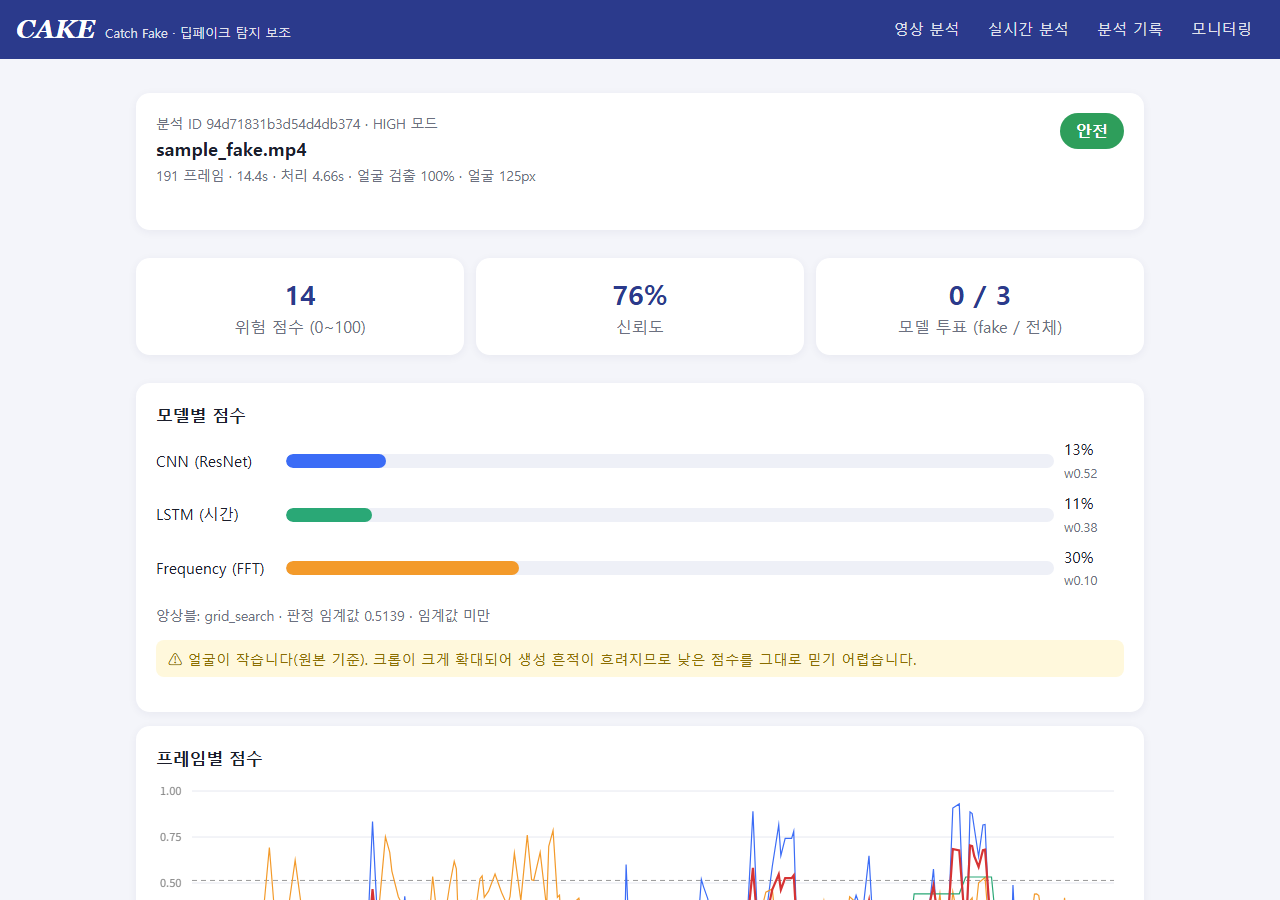
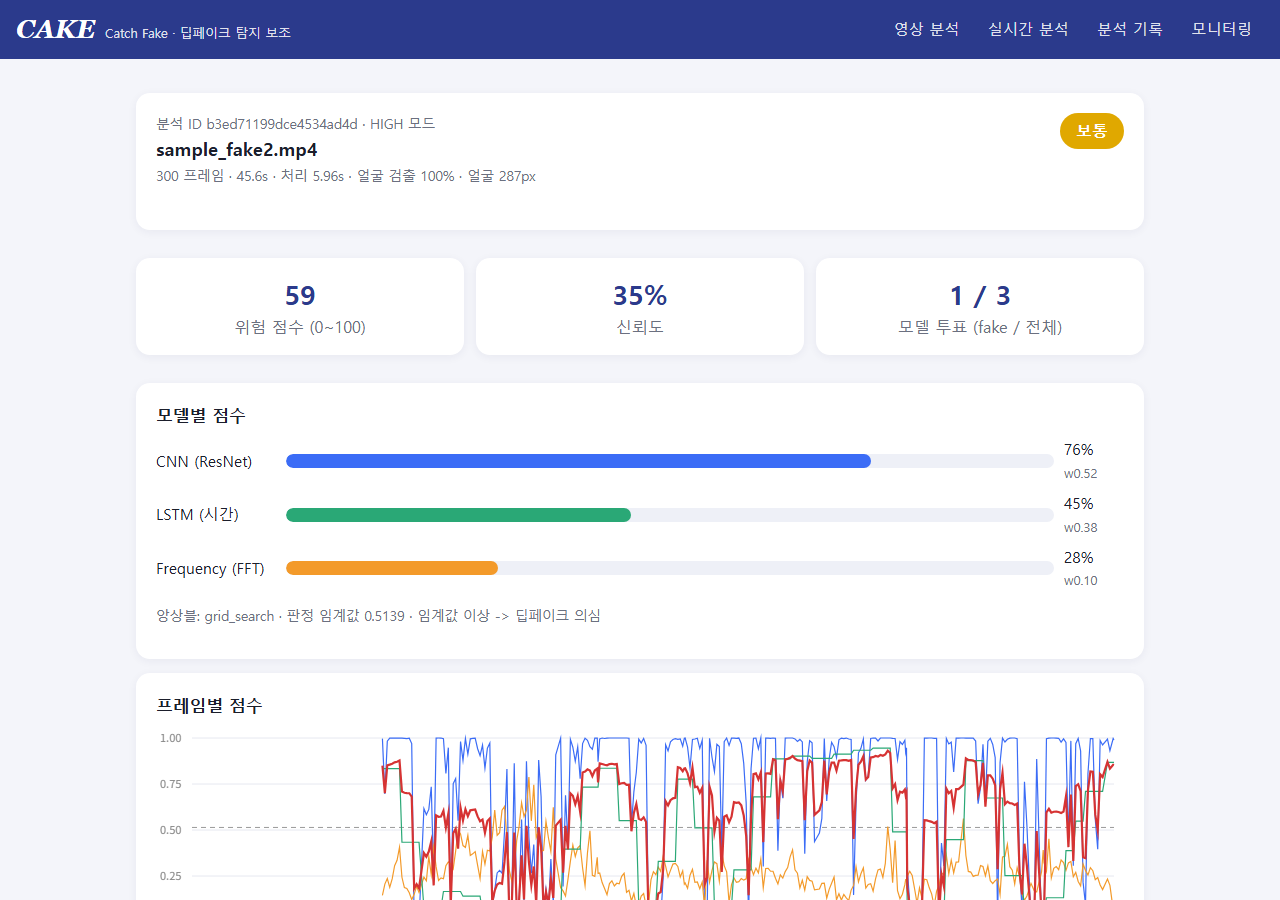
샘플 교체 - 결과 화면, 측정, 평가 스크립트 갱신

diff --git a/detector/training/eval_samples.py b/detector/training/eval_samples.py
@@ -1,6 +1,7 @@
 """
 data/samples/ 의 실제 SNS 영상을 현재 체크포인트로 일괄 분석 -> 일반화(도메인 밖) 점검.
-라벨은 --labels CSV(file,label; 1=fake 0=real) 로 파일별 지정. 없으면 --label 로 전체 동일 라벨.
+라벨은 --labels CSV(file,label; 1=fake 0=real -1=범위 밖) 로 파일별 지정. 없으면 --label 로 전체 동일 라벨.
+범위 밖(-1: VFX·완전 생성 영상 등 얼굴 변조가 아닌 것)은 점수만 기록하고 정답 집계에서 뺀다.
 
     docker compose exec -T detector python -m training.eval_samples --tag v1_labeled --labels /data/samples/labels.csv
     -> runs/samples_eval_{tag}.json + 표 출력.  Grad-CAM 생략(점수만).
@@ -34,7 +35,7 @@ def main() -> None:
     ap.add_argument("--dir", type=Path, default=settings.data_dir / "samples")
     ap.add_argument("--tag", required=True, help="결과 파일 이름 (예: v1, v2_sns)")
     ap.add_argument("--label", type=int, default=1, help="샘플 실제 라벨 (기본 1=fake). --labels 가 없을 때만 사용")
-    ap.add_argument("--labels", type=Path, default=None, help="파일별 라벨 CSV (file,label). 1=fake, 0=real")
+    ap.add_argument("--labels", type=Path, default=None, help="파일별 라벨 CSV (file,label). 1=fake, 0=real, -1=범위 밖(집계 제외)")
     args = ap.parse_args()
 
     labels: dict[str, int] = {}
@@ -55,18 +56,20 @@ def main() -> None:
         s = r["scores"]
         lab = labels.get(p.name, args.label)
         rows.append({"file": p.name, "label": lab, "score": round(r["deepfake_score"], 4), "risk": r["risk_level"],
-                     "pred_fake": bool(r["deepfake_score"] >= thr), "correct": bool(r["deepfake_score"] >= thr) == (lab == 1),
+                     "pred_fake": bool(r["deepfake_score"] >= thr), "correct": (bool(r["deepfake_score"] >= thr) == (lab == 1)) if lab >= 0 else None,
                      "vote": f'{r["vote"]["fake"]}/{r["vote"]["total"]}',
                      "cnn": round(s["cnn"], 3), "lstm": round(s["lstm"], 3), "fft": round(s["frequency"], 3),
                      "face_ratio": r["face_ratio"], "face_px": r.get("face_px"), "frames_no_face": r.get("frames_no_face"),
                      "quality_warnings": r.get("quality_warnings", []), "sec": round(time.time() - t0, 1)})
     uniq = [r for r in rows if "dup_of" not in r]
     fakes = [r for r in uniq if r["label"] == 1]; reals = [r for r in uniq if r["label"] == 0]
-    n_hit = sum(r["correct"] for r in uniq)
+    oos = [r for r in uniq if r["label"] < 0]
+    scored = fakes + reals
+    n_hit = sum(bool(r["correct"]) for r in scored)
     tp = sum(r["pred_fake"] for r in fakes); tn = sum(not r["pred_fake"] for r in reals)
     out = {"tag": args.tag, "mode": args.mode, "weights": engine.ens_cfg["weights"], "threshold": thr,
-           "n_unique": len(uniq), "n_fake": len(fakes), "n_real": len(reals), "n_correct": n_hit,
-           "accuracy": round(n_hit / max(1, len(uniq)), 3),
+           "n_unique": len(uniq), "n_fake": len(fakes), "n_real": len(reals), "n_out_of_scope": len(oos), "n_correct": n_hit,
+           "accuracy": round(n_hit / max(1, len(scored)), 3),
            "fake_detected": tp, "recall": round(tp / len(fakes), 3) if fakes else None,
            "real_correct": tn, "specificity": round(tn / len(reals), 3) if reals else None,
            "rows": rows}
@@ -77,13 +80,13 @@ def main() -> None:
     print(f"\n[{args.tag}] mode={args.mode} weights={out['weights']} thr={thr:.3f}")
     print(f"{'file':<36}{'label':<6}{'score':>7}  {'risk':<8}{'pred':<6}{'vote':<5}{'cnn':>6}{'lstm':>6}{'fft':>6}{'face':>6}{'px':>5}{'drop':>5}  warnings")
     for r in sorted(uniq, key=lambda r: -r["score"]):
-        print(f"{r['file'][:35]:<36}{'FAKE' if r['label'] == 1 else 'real':<6}{r['score']*100:>7.1f}  {r['risk']:<8}{'FAKE' if r['pred_fake'] else 'real':<6}"
+        print(f"{r['file'][:35]:<36}{'FAKE' if r['label'] == 1 else ('real' if r['label'] == 0 else 'OOS'):<6}{r['score']*100:>7.1f}  {r['risk']:<8}{'FAKE' if r['pred_fake'] else 'real':<6}"
               f"{r['vote']:<5}{r['cnn']:>6.2f}{r['lstm']:>6.2f}{r['fft']:>6.2f}{r['face_ratio']:>6.2f}"
               f"{str(r.get('face_px') or '-'):>5}{str(r.get('frames_no_face') or 0):>5}  {','.join(r.get('quality_warnings') or [])}")
     for r in rows:
         if "dup_of" in r:
             print(f"{r['file'][:35]:<36}   (= {r['dup_of']})")
-    print(f"정답: {n_hit}/{len(uniq)} = {out['accuracy']*100:.0f}%  |  가짜 탐지 {tp}/{len(fakes)}  |  진짜 정답 {tn}/{len(reals)}")
+    print(f"정답: {n_hit}/{len(scored)} = {out['accuracy']*100:.0f}%  |  가짜 탐지 {tp}/{len(fakes)}  |  진짜 정답 {tn}/{len(reals)}  |  범위 밖 {len(oos)}개(집계 제외)")
 
 
 if __name__ == "__main__":
